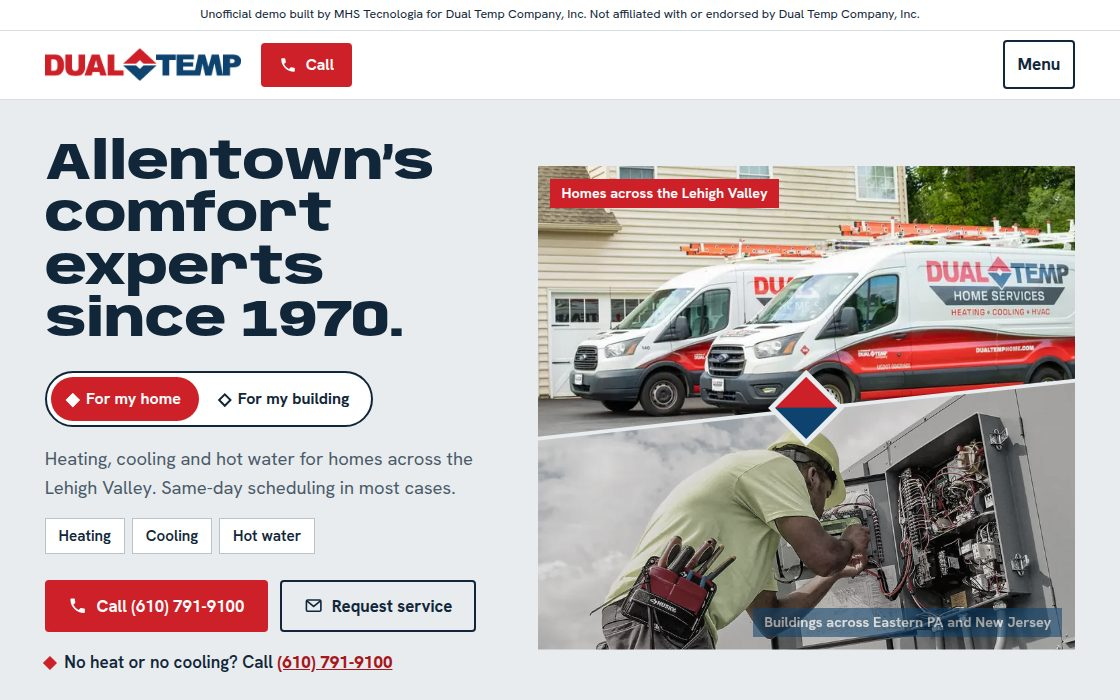
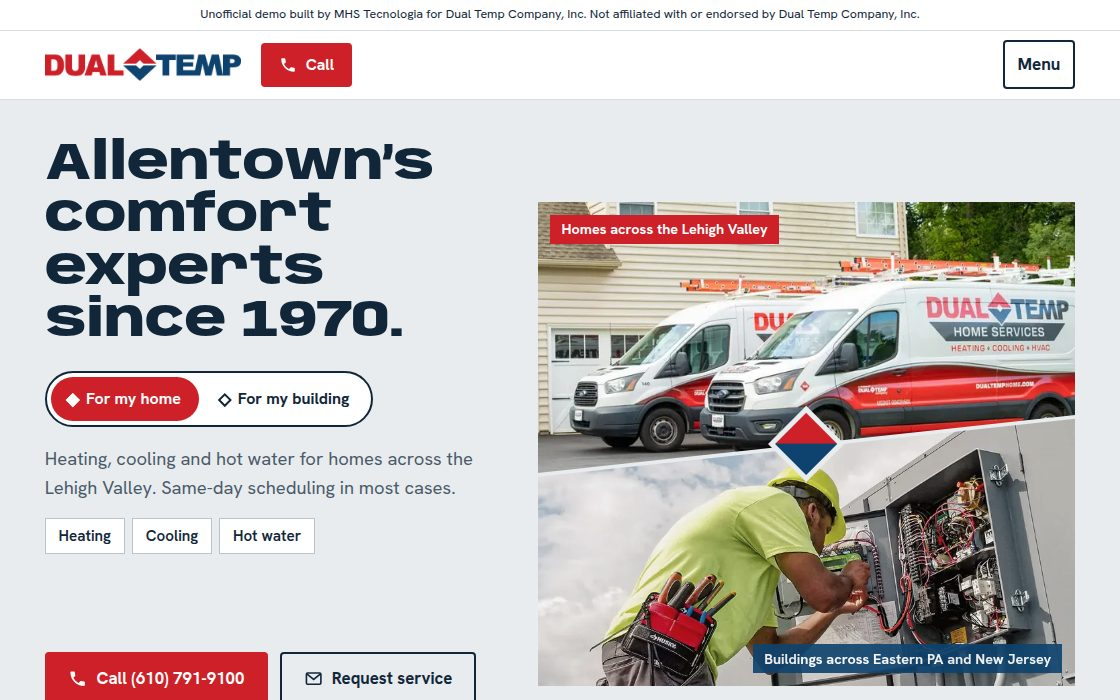
Previews: 16 ativos

diff --git a/dual-temp-allentown-pa/index.html b/dual-temp-allentown-pa/index.html
@@ -88,7 +88,7 @@ p { max-width: 64ch; }
 .lede { font-size: 1.15rem; color: var(--muted); margin-top: 1.1rem; }
 .ctas { display: flex; flex-wrap: wrap; gap: .75rem; margin-top: 1.6rem; }
 .urgent { margin-top: 1.1rem; font-weight: 600; display: flex; align-items: center; gap: .6rem; }
-.urgent a { color: var(--red-deep); font-weight: 800; }
+.urgent a { color: var(--red-deep); font-weight: 800; white-space: nowrap; }
 .dot { width: .62rem; height: .62rem; flex: none; background: var(--red); transform: rotate(45deg); }
 /* the split plate: their two sides, home and building, cut on the diamond's angle */
 .plate { position: relative; aspect-ratio: 6 / 5.4; }
@@ -116,12 +116,16 @@ p { max-width: 64ch; }
 .who button[aria-pressed="true"][data-side="home"] { background: var(--red); color: #fff; }
 .who button[aria-pressed="true"][data-side="work"] { background: var(--navy); color: #fff; }
 .who button[aria-pressed="true"] .sw { background: #fff; border-color: #fff; }
+.swap { display: grid; }
+.swap > * { grid-area: 1 / 1; }
+.swap > .off { visibility: hidden; }
+@media (min-width: 1101px) { .hero .ctas { flex-wrap: nowrap; } }
 .chips { list-style: none; padding: 0; display: flex; flex-wrap: wrap; gap: .45rem; margin-top: .9rem; }
 .chips a { display: inline-flex; align-items: center; min-height: 2.25rem; padding: .3rem .8rem; border: 1px solid #b9c3cc; background: var(--white); text-decoration: none; font-weight: 600; font-size: .95rem; }
 .chips a:hover { border-color: var(--ink); }
 .half img { transition: filter .45s ease; }
-.plate[data-side="home"] .half.b img, .plate[data-side="work"] .half.a img { filter: grayscale(.7) brightness(.88); }
-.plate[data-side="home"] .half.b .tag, .plate[data-side="work"] .half.a .tag { opacity: .55; }
+.plate[data-side="home"] .half.b img, .plate[data-side="work"] .half.a img { filter: grayscale(.3) brightness(.97); }
+.plate[data-side="home"] .half.b .tag, .plate[data-side="work"] .half.a .tag { opacity: .9; }
 .tag { transition: opacity .3s; }
 .diamond { transition: transform .5s cubic-bezier(.3,1.4,.5,1); }
 .plate[data-side="work"] .diamond { transform: rotate(225deg); }
@@ -330,16 +334,21 @@ footer .fine p + p { margin-top: .5rem; }
         <button type="button" aria-pressed="true" data-side="home"><span class="sw" aria-hidden="true"></span>For my home</button>
         <button type="button" aria-pressed="false" data-side="work"><span class="sw" aria-hidden="true"></span>For my building</button>
       </div>
+      <div class="swap">
       <div data-for="home">
         <p class="lede">Heating, cooling and hot water for homes across the Lehigh Valley. Same-day scheduling in most cases.</p>
         <ul class="chips"><li><a href="home-services.html#heating">Heating</a></li><li><a href="home-services.html#cooling">Cooling</a></li><li><a href="home-services.html#hot-water">Hot water</a></li></ul>
       </div>
-      <div data-for="work" hidden>
+      <div data-for="work" class="off">
         <p class="lede">Service, emergency response, construction and controls for buildings across Eastern Pennsylvania and New Jersey.</p>
         <ul class="chips"><li><a href="commercial.html">Service &amp; repair</a></li><li><a href="commercial.html#emergency">Emergency</a></li><li><a href="construction.html">Construction</a></li><li><a href="automation.html">Controls</a></li></ul>
       </div>
+      </div>
       <div class="ctas" id="hero-cta"><a class="btn btn-red" href="tel:+16107919100"><svg viewBox="0 0 24 24" aria-hidden="true" fill="currentColor"><path d="M6.6 10.8a15.1 15.1 0 0 0 6.6 6.6l2.2-2.2c.3-.3.7-.4 1-.2 1.1.4 2.3.6 3.6.6.6 0 1 .4 1 1V20c0 .6-.4 1-1 1A17 17 0 0 1 3 4c0-.6.4-1 1-1h3.5c.6 0 1 .4 1 1 0 1.3.2 2.5.6 3.6.1.3 0 .7-.2 1l-2.3 2.2z"/></svg>Call (610) 791-9100</a><a class="btn btn-line" id="hero-mail" href="mailto:info@dualtemp.com?subject=Service%20request&amp;body=Name%3A%20%0AAddress%3A%20%0AHome%20or%20business%3A%20%0AWhat%E2%80%99s%20going%20on%3A%20%0A" data-home="mailto:info@dualtemp.com?subject=Service%20request&amp;body=Name%3A%20%0AAddress%3A%20%0AHome%20or%20business%3A%20%0AWhat%E2%80%99s%20going%20on%3A%20%0A" data-work="mailto:info@dualtemp.com?subject=Project%20inquiry&amp;body=Company%3A%20%0ASite%20location%3A%20%0AProject%20type%3A%20%0ASchedule%3A%20%0A"><svg viewBox="0 0 24 24" aria-hidden="true" fill="none" stroke="currentColor" stroke-width="2"><rect x="3" y="5" width="18" height="14" rx="1.5"/><path d="m3.5 6 8.5 7 8.5-7"/></svg><span>Request service</span></a></div>
-      <p class="urgent"><span class="dot" aria-hidden="true"></span><span>No heat or no cooling? Call <a href="tel:+16107919100">(610) 791-9100</a></span></p>
+      <div class="swap">
+        <p class="urgent" data-for="home"><span class="dot" aria-hidden="true"></span><span>No heat or no cooling? Call <a href="tel:+16107919100">(610) 791-9100</a></span></p>
+        <p class="urgent off" data-for="work"><span class="dot" aria-hidden="true"></span><span>Building emergency after hours? Call <a href="tel:+16107919100">(610) 791-9100</a></span></p>
+      </div>
     </div>
     <div class="plate" id="plate" data-side="home">
       <div class="half a"><img src="img/hero-home-800.webp" srcset="img/hero-home-480.webp 480w, img/hero-home-800.webp 800w, img/hero-home-1200.webp 1200w, img/hero-home-1600.webp 1600w" sizes="(max-width: 860px) calc(100vw - 2rem), 640px" width="1600" height="686" alt="Two Dual Temp Home Services vans parked outside a house" style="object-position:50% 62%" fetchpriority="high" decoding="async"><span class="tag">Homes across the Lehigh Valley</span></div>
@@ -356,10 +365,10 @@ footer .fine p + p { margin-top: .5rem; }
     b.addEventListener('click', function () {
       var side = b.getAttribute('data-side');
       btns.forEach(function (o) { o.setAttribute('aria-pressed', o === b ? 'true' : 'false'); });
-      document.querySelectorAll('[data-for]').forEach(function (el) { el.hidden = el.getAttribute('data-for') !== side; });
+      document.querySelectorAll('[data-for]').forEach(function (el) { el.classList.toggle('off', el.getAttribute('data-for') !== side); });
       plate.setAttribute('data-side', side);
       mail.href = mail.getAttribute('data-' + side);
-      mail.querySelector('span').textContent = side === 'home' ? 'Request service' : 'Email the service team';
+      mail.querySelector('span').textContent = side === 'home' ? 'Request service' : 'Email the team';
     });
   });
 })();

diff --git a/dual-temp-allentown-pa/about.html b/dual-temp-allentown-pa/about.html
@@ -88,7 +88,7 @@ p { max-width: 64ch; }
 .lede { font-size: 1.15rem; color: var(--muted); margin-top: 1.1rem; }
 .ctas { display: flex; flex-wrap: wrap; gap: .75rem; margin-top: 1.6rem; }
 .urgent { margin-top: 1.1rem; font-weight: 600; display: flex; align-items: center; gap: .6rem; }
-.urgent a { color: var(--red-deep); font-weight: 800; }
+.urgent a { color: var(--red-deep); font-weight: 800; white-space: nowrap; }
 .dot { width: .62rem; height: .62rem; flex: none; background: var(--red); transform: rotate(45deg); }
 /* the split plate: their two sides, home and building, cut on the diamond's angle */
 .plate { position: relative; aspect-ratio: 6 / 5.4; }
@@ -116,12 +116,16 @@ p { max-width: 64ch; }
 .who button[aria-pressed="true"][data-side="home"] { background: var(--red); color: #fff; }
 .who button[aria-pressed="true"][data-side="work"] { background: var(--navy); color: #fff; }
 .who button[aria-pressed="true"] .sw { background: #fff; border-color: #fff; }
+.swap { display: grid; }
+.swap > * { grid-area: 1 / 1; }
+.swap > .off { visibility: hidden; }
+@media (min-width: 1101px) { .hero .ctas { flex-wrap: nowrap; } }
 .chips { list-style: none; padding: 0; display: flex; flex-wrap: wrap; gap: .45rem; margin-top: .9rem; }
 .chips a { display: inline-flex; align-items: center; min-height: 2.25rem; padding: .3rem .8rem; border: 1px solid #b9c3cc; background: var(--white); text-decoration: none; font-weight: 600; font-size: .95rem; }
 .chips a:hover { border-color: var(--ink); }
 .half img { transition: filter .45s ease; }
-.plate[data-side="home"] .half.b img, .plate[data-side="work"] .half.a img { filter: grayscale(.7) brightness(.88); }
-.plate[data-side="home"] .half.b .tag, .plate[data-side="work"] .half.a .tag { opacity: .55; }
+.plate[data-side="home"] .half.b img, .plate[data-side="work"] .half.a img { filter: grayscale(.3) brightness(.97); }
+.plate[data-side="home"] .half.b .tag, .plate[data-side="work"] .half.a .tag { opacity: .9; }
 .tag { transition: opacity .3s; }
 .diamond { transition: transform .5s cubic-bezier(.3,1.4,.5,1); }
 .plate[data-side="work"] .diamond { transform: rotate(225deg); }

diff --git a/dual-temp-allentown-pa/automation.html b/dual-temp-allentown-pa/automation.html
@@ -88,7 +88,7 @@ p { max-width: 64ch; }
 .lede { font-size: 1.15rem; color: var(--muted); margin-top: 1.1rem; }
 .ctas { display: flex; flex-wrap: wrap; gap: .75rem; margin-top: 1.6rem; }
 .urgent { margin-top: 1.1rem; font-weight: 600; display: flex; align-items: center; gap: .6rem; }
-.urgent a { color: var(--red-deep); font-weight: 800; }
+.urgent a { color: var(--red-deep); font-weight: 800; white-space: nowrap; }
 .dot { width: .62rem; height: .62rem; flex: none; background: var(--red); transform: rotate(45deg); }
 /* the split plate: their two sides, home and building, cut on the diamond's angle */
 .plate { position: relative; aspect-ratio: 6 / 5.4; }
@@ -116,12 +116,16 @@ p { max-width: 64ch; }
 .who button[aria-pressed="true"][data-side="home"] { background: var(--red); color: #fff; }
 .who button[aria-pressed="true"][data-side="work"] { background: var(--navy); color: #fff; }
 .who button[aria-pressed="true"] .sw { background: #fff; border-color: #fff; }
+.swap { display: grid; }
+.swap > * { grid-area: 1 / 1; }
+.swap > .off { visibility: hidden; }
+@media (min-width: 1101px) { .hero .ctas { flex-wrap: nowrap; } }
 .chips { list-style: none; padding: 0; display: flex; flex-wrap: wrap; gap: .45rem; margin-top: .9rem; }
 .chips a { display: inline-flex; align-items: center; min-height: 2.25rem; padding: .3rem .8rem; border: 1px solid #b9c3cc; background: var(--white); text-decoration: none; font-weight: 600; font-size: .95rem; }
 .chips a:hover { border-color: var(--ink); }
 .half img { transition: filter .45s ease; }
-.plate[data-side="home"] .half.b img, .plate[data-side="work"] .half.a img { filter: grayscale(.7) brightness(.88); }
-.plate[data-side="home"] .half.b .tag, .plate[data-side="work"] .half.a .tag { opacity: .55; }
+.plate[data-side="home"] .half.b img, .plate[data-side="work"] .half.a img { filter: grayscale(.3) brightness(.97); }
+.plate[data-side="home"] .half.b .tag, .plate[data-side="work"] .half.a .tag { opacity: .9; }
 .tag { transition: opacity .3s; }
 .diamond { transition: transform .5s cubic-bezier(.3,1.4,.5,1); }
 .plate[data-side="work"] .diamond { transform: rotate(225deg); }

diff --git a/dual-temp-allentown-pa/commercial.html b/dual-temp-allentown-pa/commercial.html
@@ -88,7 +88,7 @@ p { max-width: 64ch; }
 .lede { font-size: 1.15rem; color: var(--muted); margin-top: 1.1rem; }
 .ctas { display: flex; flex-wrap: wrap; gap: .75rem; margin-top: 1.6rem; }
 .urgent { margin-top: 1.1rem; font-weight: 600; display: flex; align-items: center; gap: .6rem; }
-.urgent a { color: var(--red-deep); font-weight: 800; }
+.urgent a { color: var(--red-deep); font-weight: 800; white-space: nowrap; }
 .dot { width: .62rem; height: .62rem; flex: none; background: var(--red); transform: rotate(45deg); }
 /* the split plate: their two sides, home and building, cut on the diamond's angle */
 .plate { position: relative; aspect-ratio: 6 / 5.4; }
@@ -116,12 +116,16 @@ p { max-width: 64ch; }
 .who button[aria-pressed="true"][data-side="home"] { background: var(--red); color: #fff; }
 .who button[aria-pressed="true"][data-side="work"] { background: var(--navy); color: #fff; }
 .who button[aria-pressed="true"] .sw { background: #fff; border-color: #fff; }
+.swap { display: grid; }
+.swap > * { grid-area: 1 / 1; }
+.swap > .off { visibility: hidden; }
+@media (min-width: 1101px) { .hero .ctas { flex-wrap: nowrap; } }
 .chips { list-style: none; padding: 0; display: flex; flex-wrap: wrap; gap: .45rem; margin-top: .9rem; }
 .chips a { display: inline-flex; align-items: center; min-height: 2.25rem; padding: .3rem .8rem; border: 1px solid #b9c3cc; background: var(--white); text-decoration: none; font-weight: 600; font-size: .95rem; }
 .chips a:hover { border-color: var(--ink); }
 .half img { transition: filter .45s ease; }
-.plate[data-side="home"] .half.b img, .plate[data-side="work"] .half.a img { filter: grayscale(.7) brightness(.88); }
-.plate[data-side="home"] .half.b .tag, .plate[data-side="work"] .half.a .tag { opacity: .55; }
+.plate[data-side="home"] .half.b img, .plate[data-side="work"] .half.a img { filter: grayscale(.3) brightness(.97); }
+.plate[data-side="home"] .half.b .tag, .plate[data-side="work"] .half.a .tag { opacity: .9; }
 .tag { transition: opacity .3s; }
 .diamond { transition: transform .5s cubic-bezier(.3,1.4,.5,1); }
 .plate[data-side="work"] .diamond { transform: rotate(225deg); }

diff --git a/dual-temp-allentown-pa/construction.html b/dual-temp-allentown-pa/construction.html
@@ -88,7 +88,7 @@ p { max-width: 64ch; }
 .lede { font-size: 1.15rem; color: var(--muted); margin-top: 1.1rem; }
 .ctas { display: flex; flex-wrap: wrap; gap: .75rem; margin-top: 1.6rem; }
 .urgent { margin-top: 1.1rem; font-weight: 600; display: flex; align-items: center; gap: .6rem; }
-.urgent a { color: var(--red-deep); font-weight: 800; }
+.urgent a { color: var(--red-deep); font-weight: 800; white-space: nowrap; }
 .dot { width: .62rem; height: .62rem; flex: none; background: var(--red); transform: rotate(45deg); }
 /* the split plate: their two sides, home and building, cut on the diamond's angle */
 .plate { position: relative; aspect-ratio: 6 / 5.4; }
@@ -116,12 +116,16 @@ p { max-width: 64ch; }
 .who button[aria-pressed="true"][data-side="home"] { background: var(--red); color: #fff; }
 .who button[aria-pressed="true"][data-side="work"] { background: var(--navy); color: #fff; }
 .who button[aria-pressed="true"] .sw { background: #fff; border-color: #fff; }
+.swap { display: grid; }
+.swap > * { grid-area: 1 / 1; }
+.swap > .off { visibility: hidden; }
+@media (min-width: 1101px) { .hero .ctas { flex-wrap: nowrap; } }
 .chips { list-style: none; padding: 0; display: flex; flex-wrap: wrap; gap: .45rem; margin-top: .9rem; }
 .chips a { display: inline-flex; align-items: center; min-height: 2.25rem; padding: .3rem .8rem; border: 1px solid #b9c3cc; background: var(--white); text-decoration: none; font-weight: 600; font-size: .95rem; }
 .chips a:hover { border-color: var(--ink); }
 .half img { transition: filter .45s ease; }
-.plate[data-side="home"] .half.b img, .plate[data-side="work"] .half.a img { filter: grayscale(.7) brightness(.88); }
-.plate[data-side="home"] .half.b .tag, .plate[data-side="work"] .half.a .tag { opacity: .55; }
+.plate[data-side="home"] .half.b img, .plate[data-side="work"] .half.a img { filter: grayscale(.3) brightness(.97); }
+.plate[data-side="home"] .half.b .tag, .plate[data-side="work"] .half.a .tag { opacity: .9; }
 .tag { transition: opacity .3s; }
 .diamond { transition: transform .5s cubic-bezier(.3,1.4,.5,1); }
 .plate[data-side="work"] .diamond { transform: rotate(225deg); }

diff --git a/dual-temp-allentown-pa/contact.html b/dual-temp-allentown-pa/contact.html
@@ -88,7 +88,7 @@ p { max-width: 64ch; }
 .lede { font-size: 1.15rem; color: var(--muted); margin-top: 1.1rem; }
 .ctas { display: flex; flex-wrap: wrap; gap: .75rem; margin-top: 1.6rem; }
 .urgent { margin-top: 1.1rem; font-weight: 600; display: flex; align-items: center; gap: .6rem; }
-.urgent a { color: var(--red-deep); font-weight: 800; }
+.urgent a { color: var(--red-deep); font-weight: 800; white-space: nowrap; }
 .dot { width: .62rem; height: .62rem; flex: none; background: var(--red); transform: rotate(45deg); }
 /* the split plate: their two sides, home and building, cut on the diamond's angle */
 .plate { position: relative; aspect-ratio: 6 / 5.4; }
@@ -116,12 +116,16 @@ p { max-width: 64ch; }
 .who button[aria-pressed="true"][data-side="home"] { background: var(--red); color: #fff; }
 .who button[aria-pressed="true"][data-side="work"] { background: var(--navy); color: #fff; }
 .who button[aria-pressed="true"] .sw { background: #fff; border-color: #fff; }
+.swap { display: grid; }
+.swap > * { grid-area: 1 / 1; }
+.swap > .off { visibility: hidden; }
+@media (min-width: 1101px) { .hero .ctas { flex-wrap: nowrap; } }
 .chips { list-style: none; padding: 0; display: flex; flex-wrap: wrap; gap: .45rem; margin-top: .9rem; }
 .chips a { display: inline-flex; align-items: center; min-height: 2.25rem; padding: .3rem .8rem; border: 1px solid #b9c3cc; background: var(--white); text-decoration: none; font-weight: 600; font-size: .95rem; }
 .chips a:hover { border-color: var(--ink); }
 .half img { transition: filter .45s ease; }
-.plate[data-side="home"] .half.b img, .plate[data-side="work"] .half.a img { filter: grayscale(.7) brightness(.88); }
-.plate[data-side="home"] .half.b .tag, .plate[data-side="work"] .half.a .tag { opacity: .55; }
+.plate[data-side="home"] .half.b img, .plate[data-side="work"] .half.a img { filter: grayscale(.3) brightness(.97); }
+.plate[data-side="home"] .half.b .tag, .plate[data-side="work"] .half.a .tag { opacity: .9; }
 .tag { transition: opacity .3s; }
 .diamond { transition: transform .5s cubic-bezier(.3,1.4,.5,1); }
 .plate[data-side="work"] .diamond { transform: rotate(225deg); }

diff --git a/dual-temp-allentown-pa/home-services.html b/dual-temp-allentown-pa/home-services.html
@@ -88,7 +88,7 @@ p { max-width: 64ch; }
 .lede { font-size: 1.15rem; color: var(--muted); margin-top: 1.1rem; }
 .ctas { display: flex; flex-wrap: wrap; gap: .75rem; margin-top: 1.6rem; }
 .urgent { margin-top: 1.1rem; font-weight: 600; display: flex; align-items: center; gap: .6rem; }
-.urgent a { color: var(--red-deep); font-weight: 800; }
+.urgent a { color: var(--red-deep); font-weight: 800; white-space: nowrap; }
 .dot { width: .62rem; height: .62rem; flex: none; background: var(--red); transform: rotate(45deg); }
 /* the split plate: their two sides, home and building, cut on the diamond's angle */
 .plate { position: relative; aspect-ratio: 6 / 5.4; }
@@ -116,12 +116,16 @@ p { max-width: 64ch; }
 .who button[aria-pressed="true"][data-side="home"] { background: var(--red); color: #fff; }
 .who button[aria-pressed="true"][data-side="work"] { background: var(--navy); color: #fff; }
 .who button[aria-pressed="true"] .sw { background: #fff; border-color: #fff; }
+.swap { display: grid; }
+.swap > * { grid-area: 1 / 1; }
+.swap > .off { visibility: hidden; }
+@media (min-width: 1101px) { .hero .ctas { flex-wrap: nowrap; } }
 .chips { list-style: none; padding: 0; display: flex; flex-wrap: wrap; gap: .45rem; margin-top: .9rem; }
 .chips a { display: inline-flex; align-items: center; min-height: 2.25rem; padding: .3rem .8rem; border: 1px solid #b9c3cc; background: var(--white); text-decoration: none; font-weight: 600; font-size: .95rem; }
 .chips a:hover { border-color: var(--ink); }
 .half img { transition: filter .45s ease; }
-.plate[data-side="home"] .half.b img, .plate[data-side="work"] .half.a img { filter: grayscale(.7) brightness(.88); }
-.plate[data-side="home"] .half.b .tag, .plate[data-side="work"] .half.a .tag { opacity: .55; }
+.plate[data-side="home"] .half.b img, .plate[data-side="work"] .half.a img { filter: grayscale(.3) brightness(.97); }
+.plate[data-side="home"] .half.b .tag, .plate[data-side="work"] .half.a .tag { opacity: .9; }
 .tag { transition: opacity .3s; }
 .diamond { transition: transform .5s cubic-bezier(.3,1.4,.5,1); }
 .plate[data-side="work"] .diamond { transform: rotate(225deg); }

diff --git a/dual-temp-allentown-pa/projects.html b/dual-temp-allentown-pa/projects.html
@@ -88,7 +88,7 @@ p { max-width: 64ch; }
 .lede { font-size: 1.15rem; color: var(--muted); margin-top: 1.1rem; }
 .ctas { display: flex; flex-wrap: wrap; gap: .75rem; margin-top: 1.6rem; }
 .urgent { margin-top: 1.1rem; font-weight: 600; display: flex; align-items: center; gap: .6rem; }
-.urgent a { color: var(--red-deep); font-weight: 800; }
+.urgent a { color: var(--red-deep); font-weight: 800; white-space: nowrap; }
 .dot { width: .62rem; height: .62rem; flex: none; background: var(--red); transform: rotate(45deg); }
 /* the split plate: their two sides, home and building, cut on the diamond's angle */
 .plate { position: relative; aspect-ratio: 6 / 5.4; }
@@ -116,12 +116,16 @@ p { max-width: 64ch; }
 .who button[aria-pressed="true"][data-side="home"] { background: var(--red); color: #fff; }
 .who button[aria-pressed="true"][data-side="work"] { background: var(--navy); color: #fff; }
 .who button[aria-pressed="true"] .sw { background: #fff; border-color: #fff; }
+.swap { display: grid; }
+.swap > * { grid-area: 1 / 1; }
+.swap > .off { visibility: hidden; }
+@media (min-width: 1101px) { .hero .ctas { flex-wrap: nowrap; } }
 .chips { list-style: none; padding: 0; display: flex; flex-wrap: wrap; gap: .45rem; margin-top: .9rem; }
 .chips a { display: inline-flex; align-items: center; min-height: 2.25rem; padding: .3rem .8rem; border: 1px solid #b9c3cc; background: var(--white); text-decoration: none; font-weight: 600; font-size: .95rem; }
 .chips a:hover { border-color: var(--ink); }
 .half img { transition: filter .45s ease; }
-.plate[data-side="home"] .half.b img, .plate[data-side="work"] .half.a img { filter: grayscale(.7) brightness(.88); }
-.plate[data-side="home"] .half.b .tag, .plate[data-side="work"] .half.a .tag { opacity: .55; }
+.plate[data-side="home"] .half.b img, .plate[data-side="work"] .half.a img { filter: grayscale(.3) brightness(.97); }
+.plate[data-side="home"] .half.b .tag, .plate[data-side="work"] .half.a .tag { opacity: .9; }
 .tag { transition: opacity .3s; }
 .diamond { transition: transform .5s cubic-bezier(.3,1.4,.5,1); }
 .plate[data-side="work"] .diamond { transform: rotate(225deg); }
